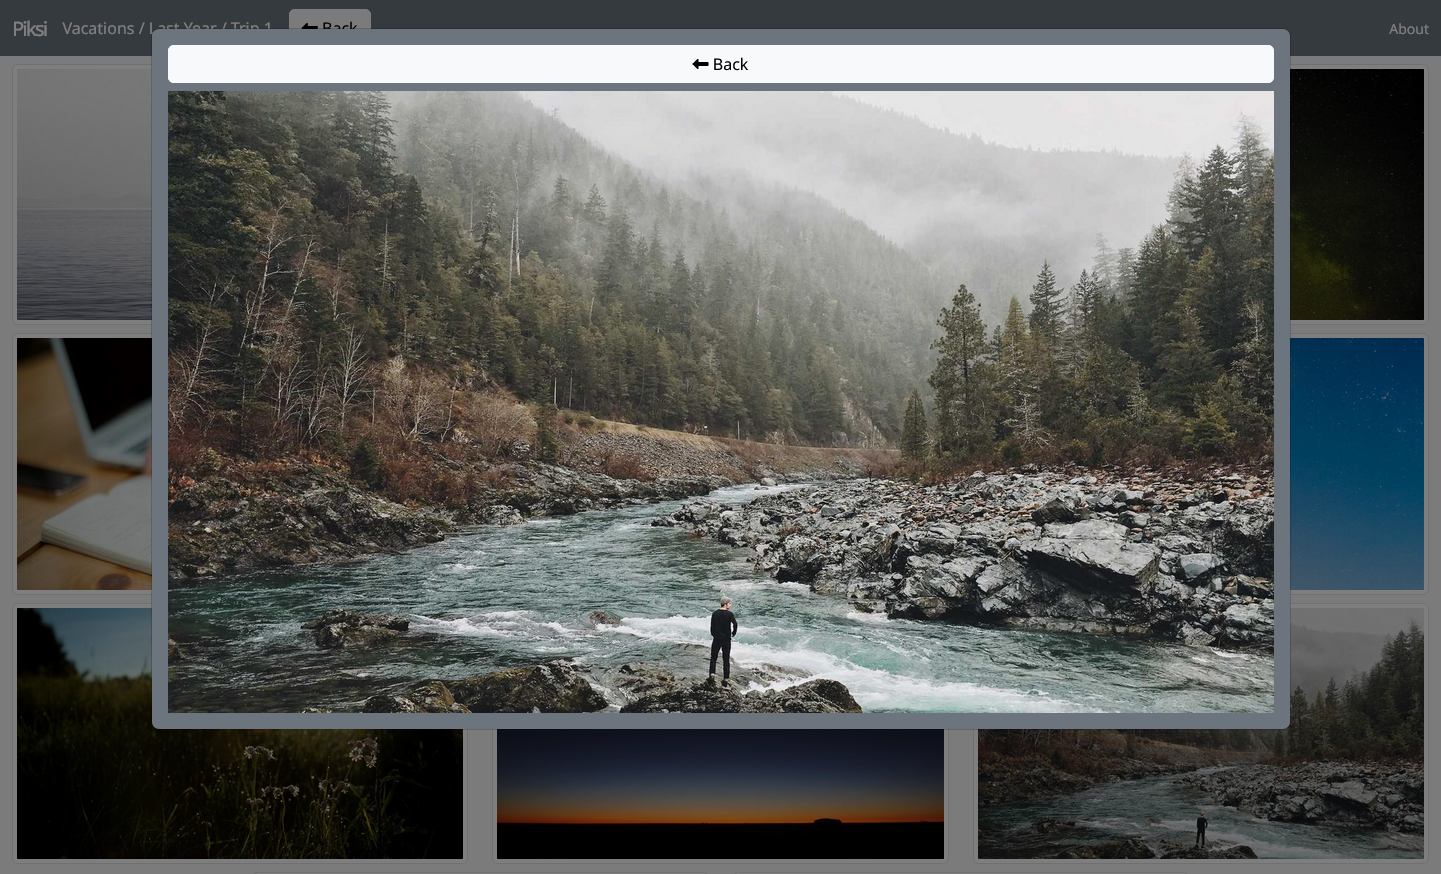
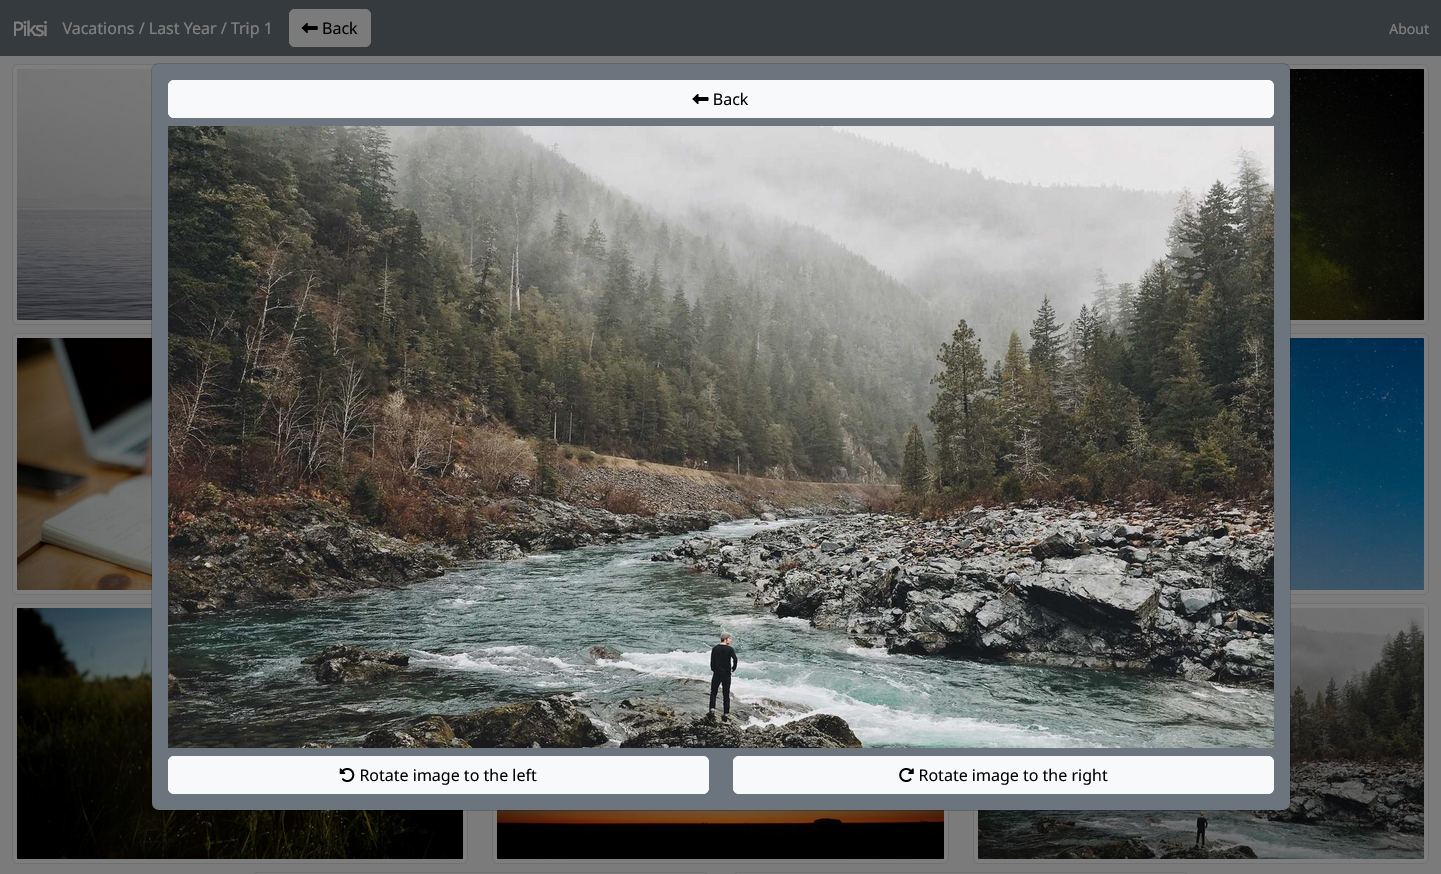
Added buttons to rotate the image when shown in lightbox

diff --git a/public/piksi.js b/public/piksi.js
@@ -123,7 +123,19 @@ $(document).on("click", ".show-as-dialog-image", function(e)
 				<i class="fa-solid fa-left-long"></i> ' + __t('Back') + ' \
 			</button> \
 		</div> \
-		<img class="img-fluid close-bootbox" src="' + $(e.currentTarget).attr("href") + '"></img>';
+		<img class="img-fluid close-bootbox" src="' + $(e.currentTarget).attr("href") + '"></img> \
+		<div class="row mt-2"> \
+			<div class="col"> \
+				<button class="btn btn-light w-100 rotate-image-button" data-rotation-factor="-90"> \
+					<i class="fa-solid fa-rotate-left"></i> ' + __t('Rotate image to the left') + ' \
+				</button> \
+			</div> \
+			<div class="col"> \
+				<button class="btn btn-light w-100 rotate-image-button" data-rotation-factor="90"> \
+					<i class="fa-solid fa-rotate-right"></i> ' + __t('Rotate image to the right') + ' \
+				</button> \
+			</div> \
+		</div>';
 
 	bootbox.dialog({
 		"message": dialogHtml,
@@ -218,3 +230,35 @@ bootbox.setDefaults({
 	"closeButton": false,
 	"centerVertical": true
 })
+
+RotateImage = function(img, rotationFactor)
+{
+	var currentRotation = 0
+	if (img.hasAttr("data-current-rotation"))
+	{
+		currentRotation = Number.parseInt(img.attr("data-current-rotation"))
+	}
+
+	currentRotation += rotationFactor;
+	if (Math.abs(currentRotation) == 360)
+	{
+		currentRotation = 0;
+	}
+
+	var scale = 1;
+	if (Math.abs(currentRotation) == 90 || Math.abs(currentRotation) == 270)
+	{
+		scale = img.get(0).naturalHeight / img.get(0).naturalWidth;
+	}
+
+	img.attr("data-current-rotation", currentRotation);
+	img.css("transform", `rotate(${currentRotation}deg) scale(${scale})`);
+}
+
+$(document).on("click", ".rotate-image-button", function(e)
+{
+	e.preventDefault();
+
+	var button = $(e.currentTarget);
+	RotateImage(button.parent().parent().parent().find("img"), Number.parseInt(button.attr("data-rotation-factor")));
+});
